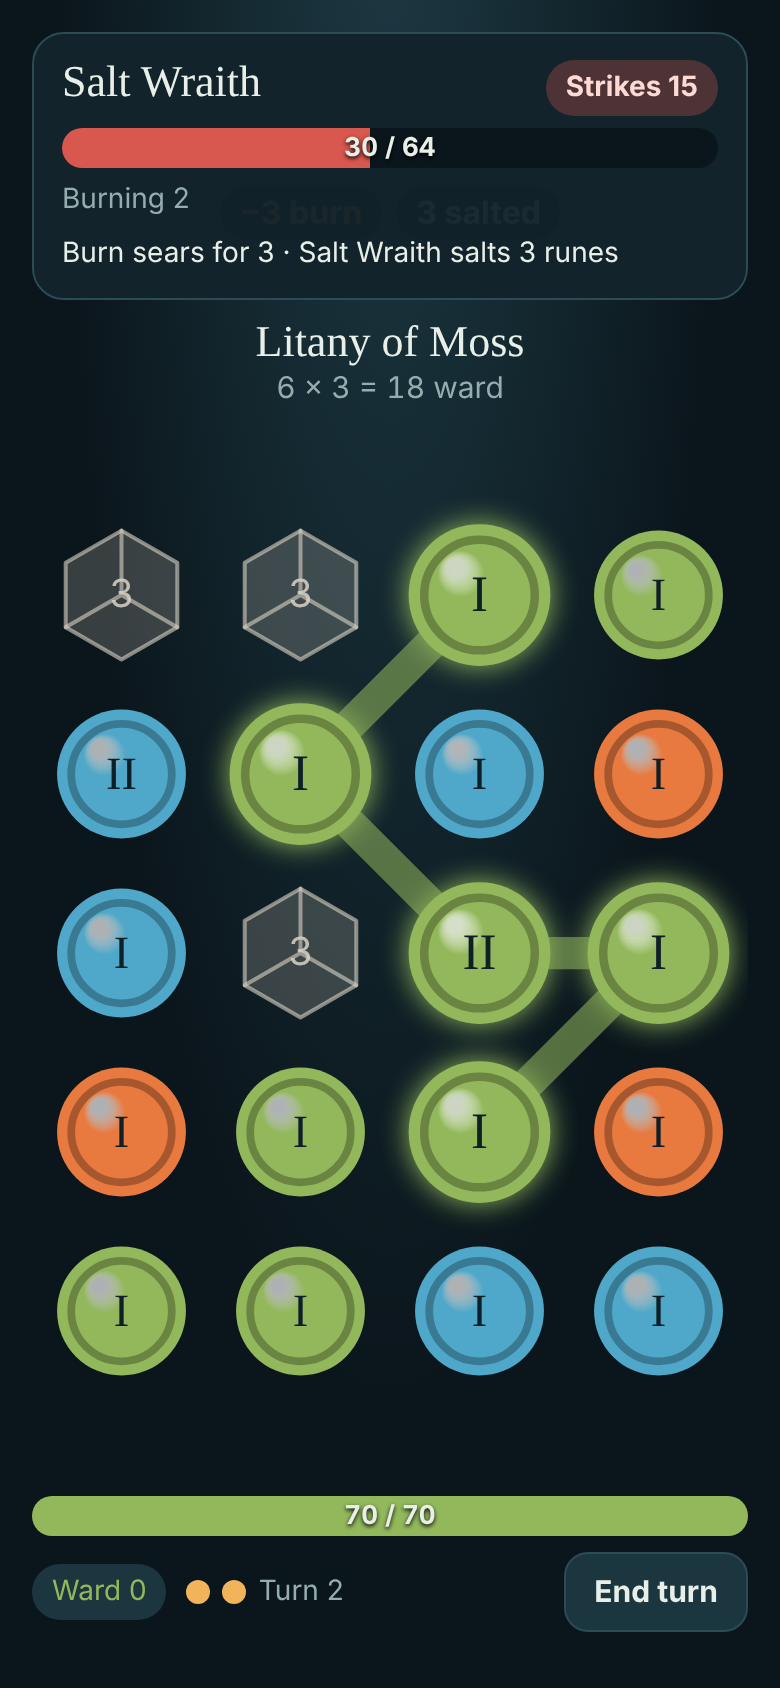
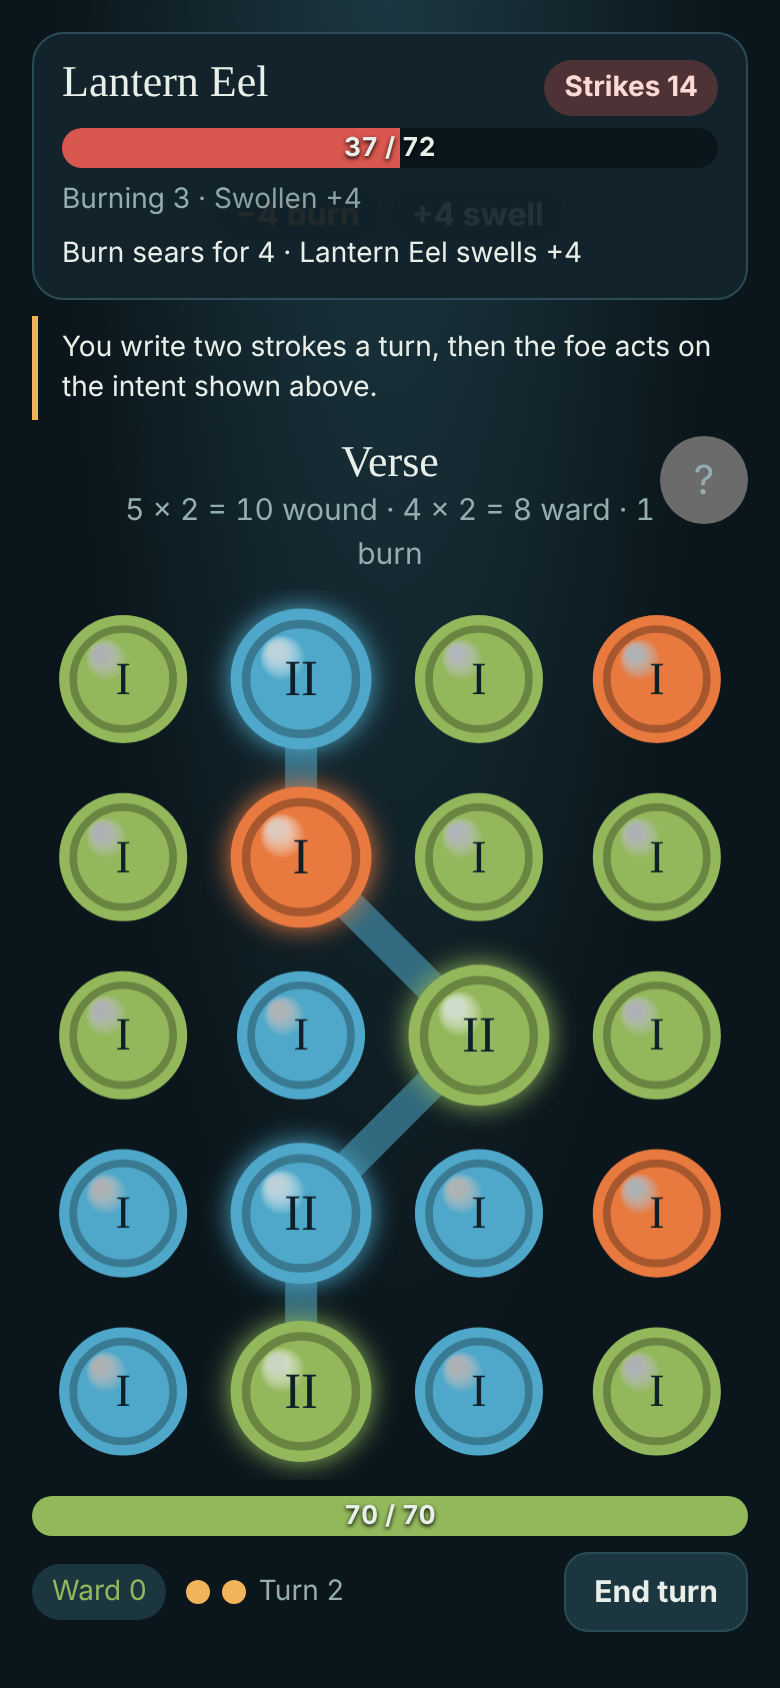
S11 Codex and first-fight guidance

diff --git a/saltscript/src/main.js b/saltscript/src/main.js
@@ -1,8 +1,8 @@
 import { bestPath } from './core/bot.js'
 import { canExtend, intentOf, isValid, readGlyph } from './core/combat.js'
 import { canStartDaily, createDailyRun, dateKey, recordDaily, shareText, startDaily } from './core/daily.js'
-import { acts, inks, marginalia, scribes, shrines, unlockCosts } from './core/data.js'
-import { bank, chooseScribe, lamplightEarned, runOptions, spend } from './core/meta.js'
+import { acts, glyphTiers, inks, intentGuide, marginalia, scribes, shrines, unlockCosts } from './core/data.js'
+import { bank, chooseScribe, hintFor, hintSeen, lamplightEarned, runOptions, spend } from './core/meta.js'
 import { act, createRun, markPrice, minBag, nodeAt, openLanes, removePrice, runePrice } from './core/run.js'
 import { createBoard, numeral } from './ui/board.js'
 import { announce } from './ui/feedback.js'
@@ -306,6 +306,9 @@ const renderCombat = () => {
   )
   $('end-turn').disabled = !canAct()
   renderPreview(combat)
+  const hint = hintFor(meta)
+  $('hint').hidden = !hint
+  $('hint').textContent = hint ?? ''
   show('combat')
   queueFoe()
 }
@@ -395,6 +398,20 @@ const renderShrine = () => {
   show('shrine')
 }
 
+const guideRows = rows => rows.map(([term, meaning]) => el('div', {}, el('dt', {}, term), el('dd', {}, meaning)))
+
+const openCodex = () => {
+  $('codex-tiers').replaceChildren(...guideRows(glyphTiers))
+  $('codex-inks').replaceChildren(...guideRows(Object.values(inks).map(ink => [ink.name, ink.does])))
+  $('codex-intents').replaceChildren(...guideRows(intentGuide))
+  $('codex-marks').replaceChildren(
+    ...(run.marks.length
+      ? guideRows(run.marks.map(key => [marginalia[key].name, marginalia[key].text]))
+      : [el('p', {}, 'None yet.')]),
+  )
+  $('codex').showModal()
+}
+
 const renderEnd = () => {
   const won = run.screen === 'victory'
   $('end-title').textContent = won ? 'The coast remembers' : 'Unwritten'
@@ -458,6 +475,7 @@ canvas.addEventListener('pointermove', event => {
 })
 canvas.addEventListener('pointerup', () => {
   if (path.length && isValid(run.combat, path)) {
+    meta = saveMeta(hintSeen(meta))
     dispatch({ type: 'write', path })
     return
   }
@@ -474,6 +492,8 @@ $('mute').onclick = () => {
   renderMute()
 }
 $('new-run').onclick = beginRun
+$('map-codex').onclick = openCodex
+$('combat-codex').onclick = openCodex
 $('daily').onclick = beginDaily
 $('continue').onclick = () => render()
 $('end-new').onclick = beginRun

diff --git a/saltscript/index.html b/saltscript/index.html
@@ -42,6 +42,7 @@
         <summary>Inkwell and marginalia</summary>
         <div id="inkwell"></div>
       </details>
+      <button type="button" id="map-codex" class="ghost">Open the codex</button>
     </section>
 
     <section id="combat" class="screen" hidden>
@@ -55,7 +56,11 @@
         <p id="log" class="log" aria-live="polite"></p>
         <div class="floats" aria-hidden="true"></div>
       </article>
-      <p id="preview" class="preview">Trace three or more touching runes</p>
+      <p id="hint" class="hint" hidden></p>
+      <div class="slate">
+        <p id="preview" class="preview">Trace three or more touching runes</p>
+        <button type="button" id="combat-codex" class="codex-open" aria-label="Open the codex">?</button>
+      </div>
       <canvas id="board" aria-label="Rune board"></canvas>
       <footer id="you" class="player">
         <div class="floats" aria-hidden="true"></div>
@@ -112,6 +117,19 @@
       <button type="button" id="end-new" class="primary">Begin a new night</button>
       <button type="button" id="end-title-screen" class="ghost">Back to the lighthouse</button>
     </section>
+
+    <dialog id="codex" class="codex">
+      <h2 class="screen-title" tabindex="-1" autofocus>The Codex</h2>
+      <p class="label">Glyphs</p>
+      <dl id="codex-tiers" class="guide"></dl>
+      <p class="label">Inks</p>
+      <dl id="codex-inks" class="guide"></dl>
+      <p class="label">Intents</p>
+      <dl id="codex-intents" class="guide"></dl>
+      <p class="label">Your marginalia</p>
+      <dl id="codex-marks" class="guide"></dl>
+      <form method="dialog"><button id="codex-close" class="primary">Close the book</button></form>
+    </dialog>
 
     <script type="module" src="src/main.js"></script>
   </body>

diff --git a/saltscript/e2e/play.js b/saltscript/e2e/play.js
@@ -48,8 +48,16 @@ try {
     window.saltscript.run().map[0].reduce((sum, node) => sum + node.links.length, 0),
   )
   assert.equal(await page.locator('#links line[data-floor="0"]').count(), firstFloorLinks)
+  await page.click('#map-codex')
+  assert.equal(await page.locator('#codex').isVisible(), true)
+  await page.click('#codex-close')
   await page.click('.node.open >> nth=0')
   assert.equal(await screen(), 'combat')
+  assert.equal(await page.locator('#hint').isVisible(), true)
+  await page.click('#combat-codex')
+  assert.match(await page.textContent('#codex-tiers'), /Canticle/)
+  await page.screenshot({ path: `${shots}codex.png` })
+  await page.click('#codex-close')
   let shot = false
   for (let stroke = 0; stroke < 60 && (await screen()) === 'combat'; stroke++) {
     await foeSettled()
@@ -79,6 +87,7 @@ try {
     }
   }
   assert.equal(await screen(), 'reward')
+  assert.equal(await page.evaluate(() => JSON.parse(localStorage.getItem('saltscript.meta')).hints), 3)
   await page.waitForSelector('#reward:not([hidden])')
   await page.screenshot({ path: `${shots}reward.png` })
   const before = await page.evaluate(() => window.saltscript.run().bag.length)
@@ -91,6 +100,8 @@ try {
   assert.ok((await page.locator('.node.open').count()) >= 1)
   assert.ok((await page.locator('#links line.walked, .node.lost').count()) >= 1)
   await page.screenshot({ path: `${shots}map-walked.png` })
+  await page.click('.node.open >> nth=0')
+  if ((await screen()) === 'combat') assert.equal(await page.locator('#hint').isVisible(), false)
   await page.evaluate(() =>
     localStorage.setItem(
       'saltscript.meta',

diff --git a/saltscript/test/meta.test.js b/saltscript/test/meta.test.js
@@ -1,6 +1,15 @@
 import assert from 'node:assert/strict'
 import { test } from 'node:test'
-import { bank, chooseScribe, createMeta, lamplightEarned, runOptions, spend } from '../src/core/meta.js'
+import {
+  bank,
+  chooseScribe,
+  createMeta,
+  hintFor,
+  hintSeen,
+  lamplightEarned,
+  runOptions,
+  spend,
+} from '../src/core/meta.js'
 import { act, createRun } from '../src/core/run.js'
 
 const rich = { ...createMeta(), lamplight: 100 }
@@ -50,4 +59,16 @@ test('the Ember Novice must be unlocked and changes the new run', () => {
   assert.deepEqual(run.marks, ['emberPsalm'])
   const embers = run.bag.filter(rune => rune.ink === 'ember').length
   assert.ok(embers > createRun(1).bag.filter(rune => rune.ink === 'ember').length)
+})
+
+test('three hints show in order, then never again', () => {
+  let meta = createMeta()
+  const seen = []
+  while (hintFor(meta)) {
+    seen.push(hintFor(meta))
+    meta = hintSeen(meta)
+  }
+  assert.equal(seen.length, 3)
+  assert.equal(hintFor(meta), null)
+  assert.equal(hintSeen(meta), meta)
 })

diff --git a/saltscript/src/core/data.js b/saltscript/src/core/data.js
@@ -317,3 +317,25 @@ export const shrines = {
     ],
   },
 }
+
+export const firstFightHints = [
+  'Swipe across three or more touching runes, in any of eight directions.',
+  'One ink makes a Seal, worth +1 mult. Brine and Ember wound, Moss wards.',
+  'You write two strokes a turn, then the foe acts on the intent shown above.',
+]
+
+export const glyphTiers = [
+  ['3 or 4 runes', '× 1 mult, a Line or Seal'],
+  ['5 or 6 runes', '× 2 mult, a Verse or Litany'],
+  ['7 or more runes', '× 3 mult, a Canticle or Litany'],
+  ['One ink only', '+1 mult'],
+]
+
+export const intentGuide = [
+  ['Strikes', 'Wounds you. Ward absorbs it first.'],
+  ['Wards', 'Absorbs your next wounds until its turn.'],
+  ['Salts', 'Turns runes to Salt, which crumbles after three turns.'],
+  ['Swells', 'Every later strike hits harder.'],
+  ['Smudges', 'Lowers runes on the page by one.'],
+  ['Drags', 'Shifts a column of the page down.'],
+]

diff --git a/saltscript/src/ui/style.css b/saltscript/src/ui/style.css
@@ -673,3 +673,63 @@ button.rune {
   gap: 8px;
   text-align: left;
 }
+
+.hint {
+  margin: 0;
+  padding: 6px 12px;
+  border-left: 3px solid var(--lamp);
+  color: var(--foam);
+  font-size: 14px;
+}
+
+.slate {
+  position: relative;
+}
+
+.slate .preview {
+  padding: 0 44px;
+}
+
+.codex-open {
+  position: absolute;
+  top: 0;
+  right: 0;
+  width: 44px;
+  height: 44px;
+  border-radius: 50%;
+  color: var(--mist);
+  font-size: 20px;
+}
+
+.codex {
+  width: min(100vw - 24px, 480px);
+  max-height: 90dvh;
+  border: 1px solid var(--line);
+  border-radius: 16px;
+  background: var(--deep);
+  color: var(--foam);
+}
+
+.codex::backdrop {
+  background: rgb(0 0 0 / 0.6);
+}
+
+.guide {
+  margin: 0 0 12px;
+  display: grid;
+  gap: 6px;
+}
+
+.guide dt {
+  font-weight: 700;
+}
+
+.guide dd {
+  margin: 0;
+  color: var(--mist);
+  font-size: 14px;
+}
+
+.codex .primary {
+  width: 100%;
+}

diff --git a/saltscript/src/core/meta.js b/saltscript/src/core/meta.js
@@ -1,9 +1,9 @@
-import { unlockCosts } from './data.js'
+import { firstFightHints, unlockCosts } from './data.js'
 import { floors } from './run.js'
 
 const bossLamplight = 10
 
-export const createMeta = () => ({ lamplight: 0, unlocked: [], scribe: 'lastScribe', banked: null })
+export const createMeta = () => ({ lamplight: 0, unlocked: [], scribe: 'lastScribe', banked: null, hints: 0 })
 
 export const lamplightEarned = run => {
   const won = run.screen === 'victory' ? 1 : 0
@@ -25,3 +25,7 @@ export const chooseScribe = (meta, key) =>
   key === 'lastScribe' || meta.unlocked.includes(key) ? { ...meta, scribe: key } : meta
 
 export const runOptions = meta => ({ scribe: meta.scribe, unlocked: meta.unlocked })
+
+export const hintFor = meta => firstFightHints[meta.hints] ?? null
+
+export const hintSeen = meta => (hintFor(meta) ? { ...meta, hints: meta.hints + 1 } : meta)

diff --git a/saltscript/src/ui/board.js b/saltscript/src/ui/board.js
@@ -44,6 +44,8 @@ export const createBoard = canvas => {
       ctx.fill()
       ctx.stroke()
       const reach = r * crackProgress(rune)
+      ctx.strokeStyle = 'rgb(217 211 196 / 0.25)'
+      ctx.lineWidth = 1
       ctx.beginPath()
       for (const k of [0, 2, 4]) {
         const a = (Math.PI / 3) * k + Math.PI / 6

diff --git a/saltscript/src/ui/store.js b/saltscript/src/ui/store.js
@@ -39,7 +39,7 @@ const metaKey = 'saltscript.meta'
 
 export const loadMeta = () => {
   try {
-    return JSON.parse(localStorage.getItem(metaKey)) ?? createMeta()
+    return { ...createMeta(), ...JSON.parse(localStorage.getItem(metaKey)) }
   } catch {
     return createMeta()
   }

diff --git a/saltscript/BACKLOG.md b/saltscript/BACKLOG.md
@@ -4,10 +4,6 @@ The build agent takes items from the top of **Next**, one commit each. Scheduled
 
 ## Next
 
-### S11 Codex and first-fight guidance
-
-A codex sheet reachable from map and combat: glyph tiers table, inks, intents, current marginalia. The first fight of the first run shows three one-line hints in sequence. Done when the hints appear once and the codex opens from both screens (e2e).
-
 ### S12 PWA
 
 Manifest, icon, service worker caching the app shell and fonts, offline play after the first visit. Done when e2e reloads offline and starts a run.
@@ -40,6 +36,7 @@ axe in e2e on every screen with no serious or critical violations; a tap alterna
 - S08 More shrines: Ink Leech, Tide Bell, Mapmaker's Corpse, Lamp That Asks; effects moved to a table (2026-11-02)
 - S09 Meta progression: Lamplight banked per run, unlockable marginalia and the Ember Novice on the title (2026-11-02)
 - S10 Daily Tide: UTC-seeded run, one attempt per date, share text with ink row (2026-11-02)
+- S11 Codex and first-fight guidance: codex dialog from map and combat, three hints once (2026-11-02)
 
 MVP rule: every commit keeps `npm test`, `npm run check` and `npm run e2e` green.
 

diff --git a/saltscript/MEMORY.md b/saltscript/MEMORY.md
@@ -22,3 +22,4 @@ Rewritten by each run; keep it short.
 - Shrines: text and options in `data.js`, effects by option index in `shrineEffects` in `run.js`; an option without an effect walks away; `run.freeStep` lets `reachable` open every lane once
 - `src/core/meta.js` is pure; `createRun(seed, runOptions(meta))`; `run.locked` filters marginalia offers; meta lives under `saltscript.meta`, banks once per `run.origin` and on load
 - `src/core/daily.js`: `createDailyRun(date)` sets `run.daily`; `meta.daily` holds `{date, result}`; `run.stats.inks` records every written glyph's ink
+- `meta.hints` counts first-fight hints shown, advanced on each written stroke; the codex is a `<dialog>` filled on open
